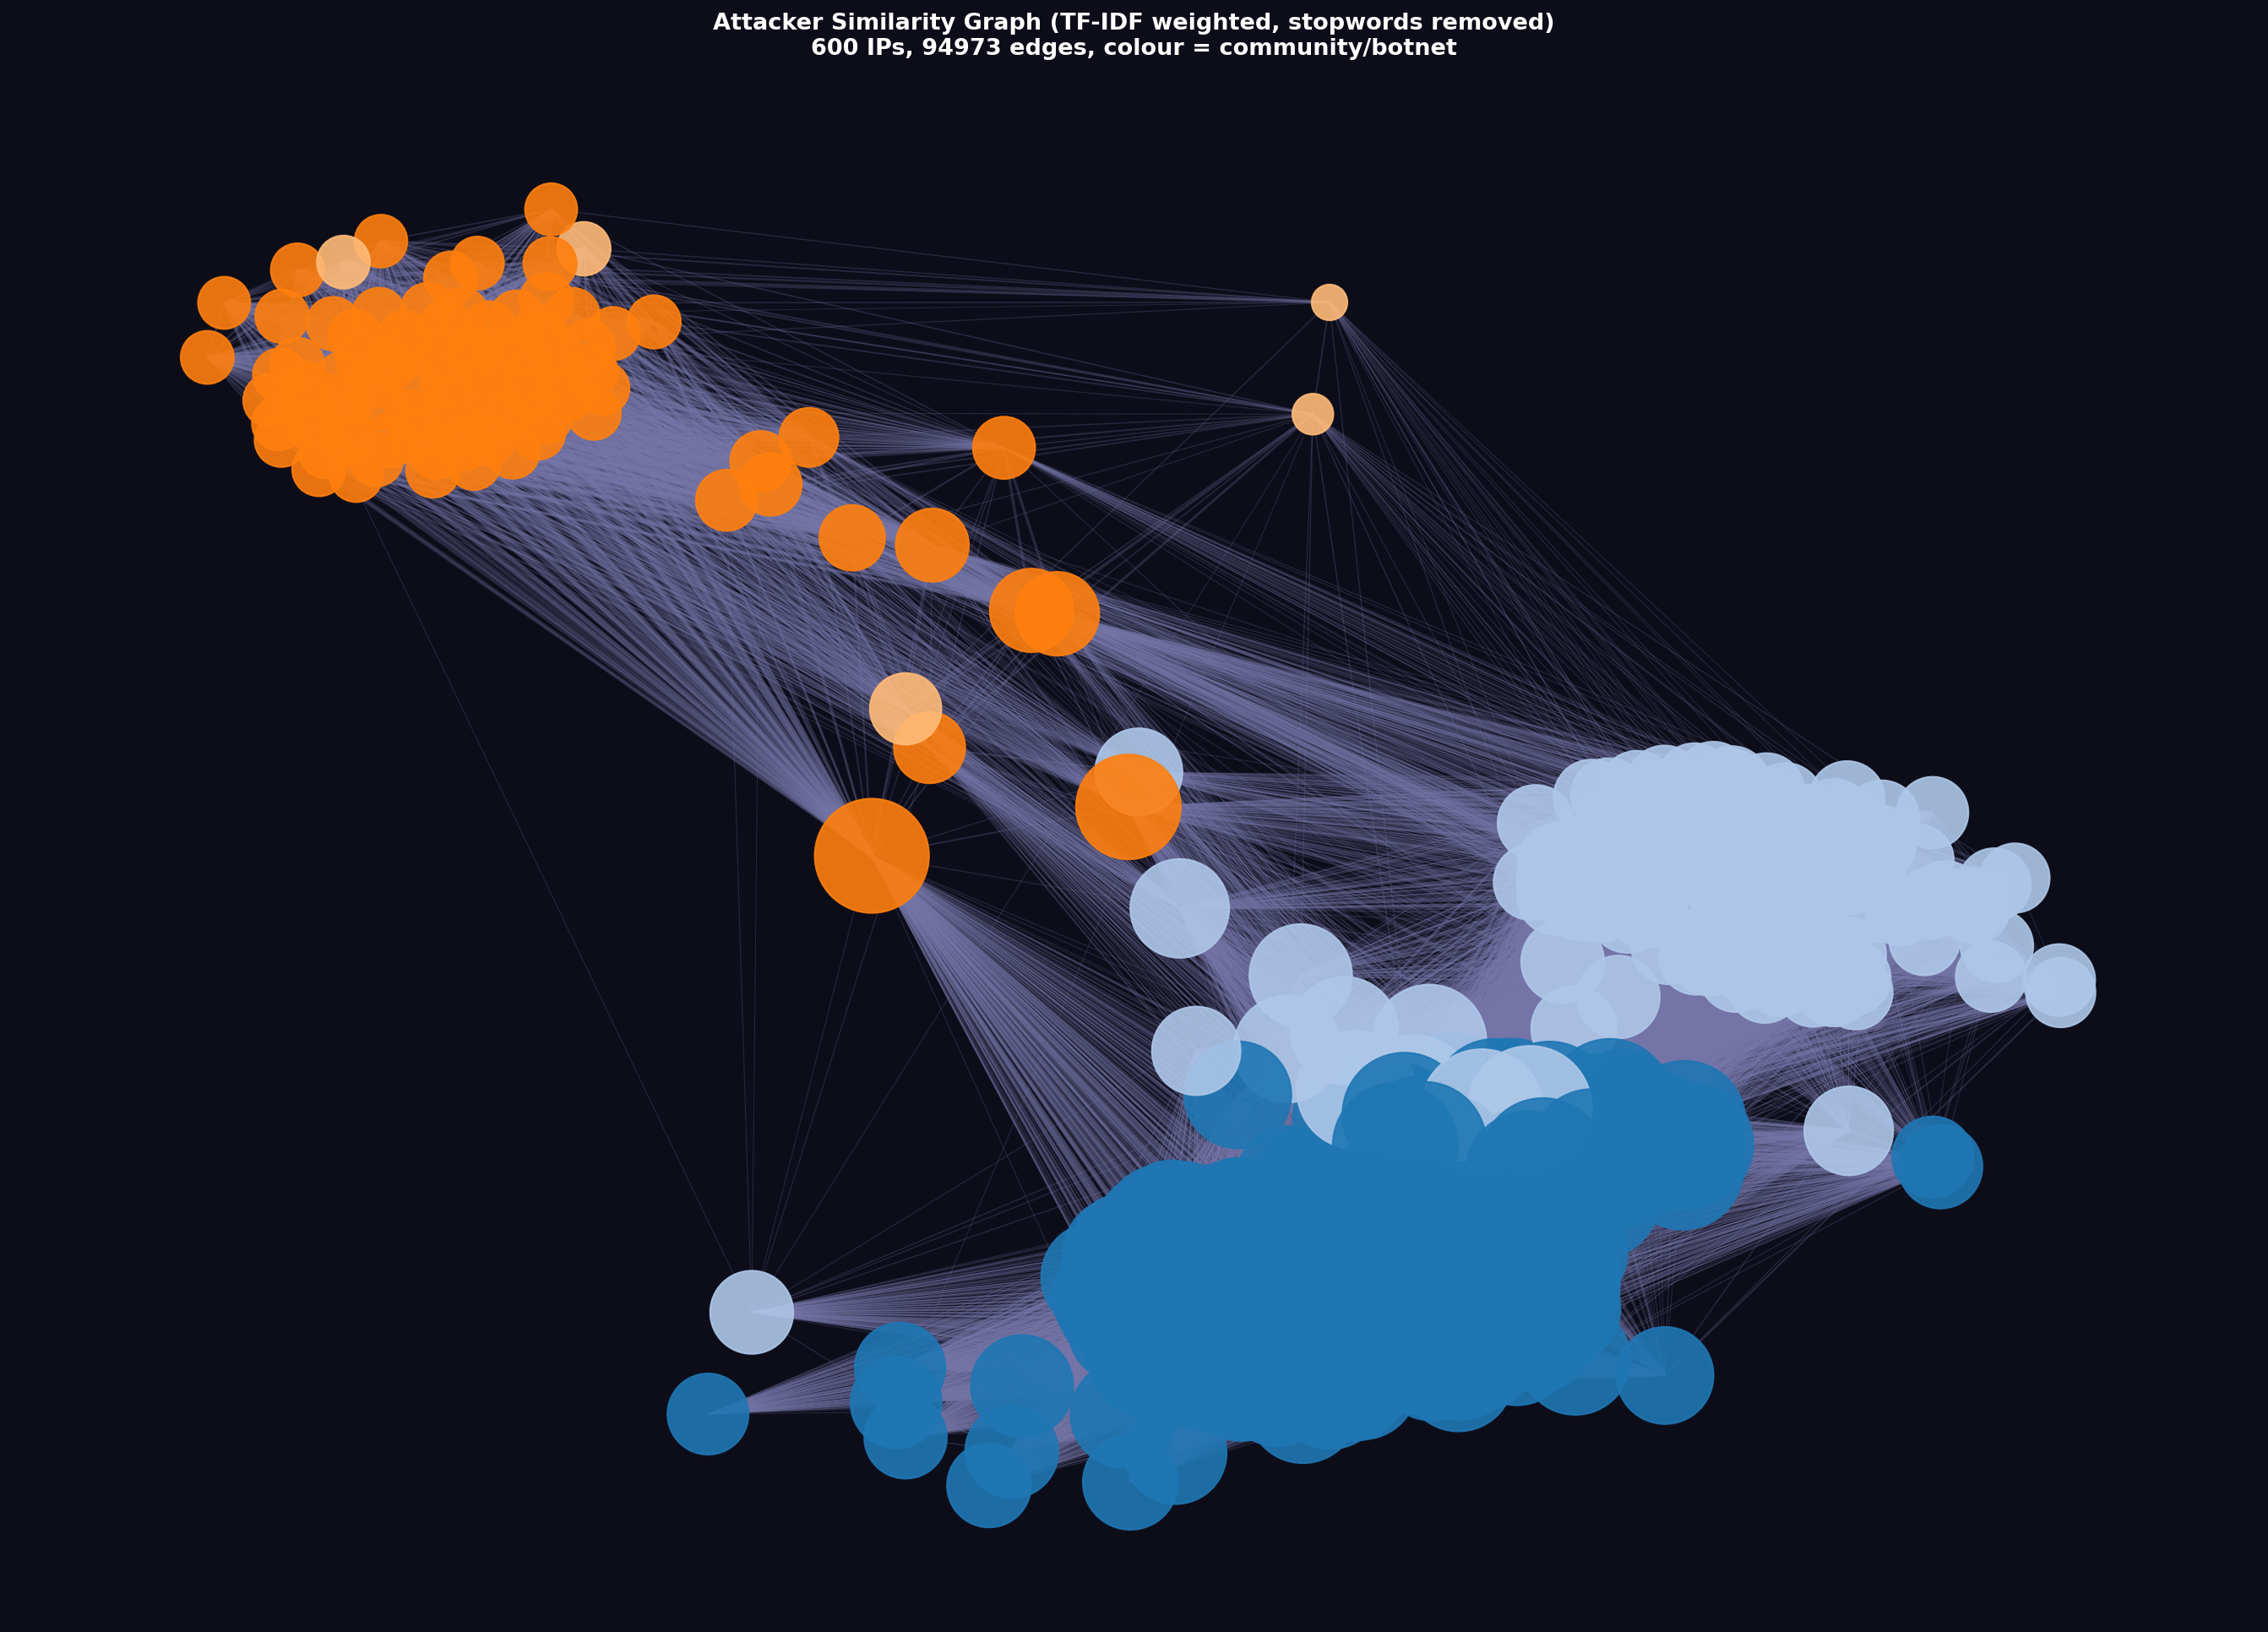
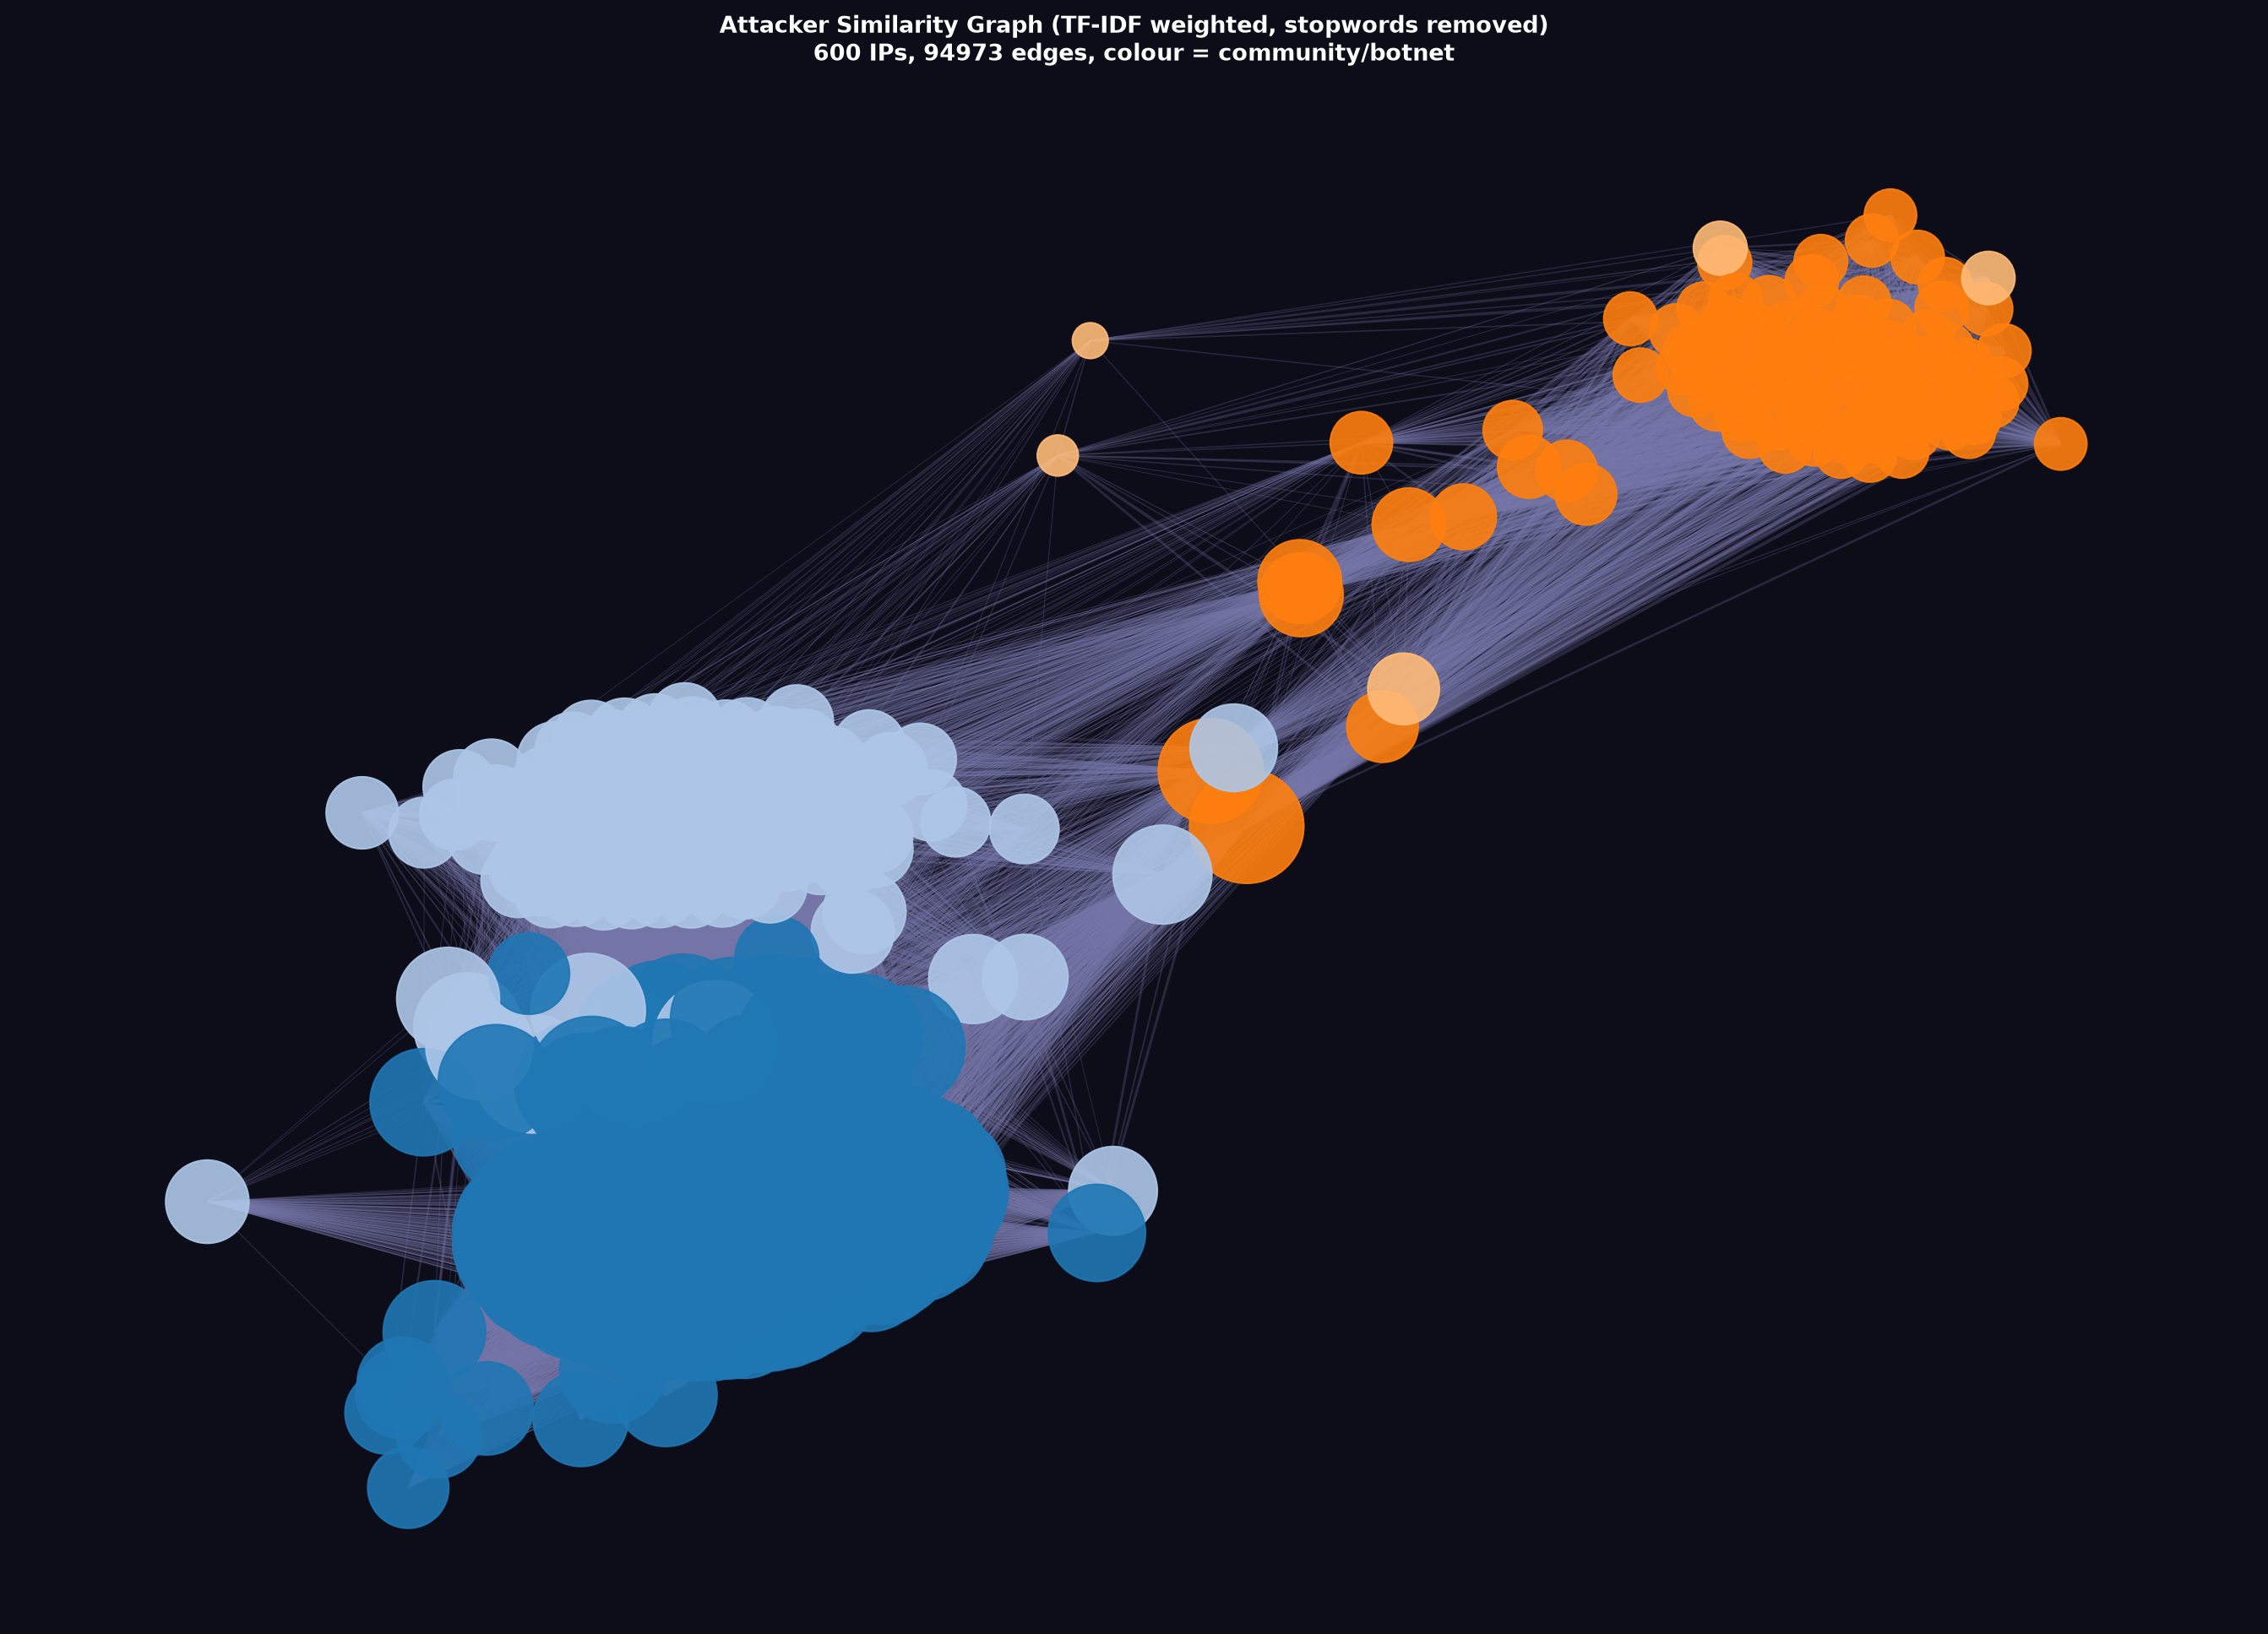
Update report, results, and graph

diff --git a/clustering_report.md b/clustering_report.md
@@ -52,25 +52,25 @@ N  = 4,973   (total unique IPs)
 df = number of IPs that tried this pair
 ```
 
-| Credential pair | IPs | IDF | Signal strength |
-|---|---|---|---|
-| `345gs5662d34/345gs5662d34` | 2,791 | 0.578 | Very low |
-| `root/3245gs5662d34` | 1,658 | 1.098 | Low |
-| `root/@qwer2025` | 799 | 1.828 | Low–medium |
-| `admin/admin` | 452 | 2.398 | Medium |
-| `root/root` | 272 | 2.906 | Medium |
-| `root/debian` | 184 | 3.298 | Medium–high |
-| `root/123456` | 131 | 3.634 | Medium–high |
-| `OPTIONS sip:.../Via: SIP/2.0/...` | ~24 | ~5.3 | High |
-| `perl/warning` | 7 | 6.563 | High |
-| `eth/ethereum12345` | 3 | 7.413 | Very high |
-| Any pair used by exactly 1 IP | 1 | 8.512 | Maximum |
+| Credential pair | IPs | IDF | Signal strength | V4 status |
+|---|---|---|---|---|
+| `345gs5662d34/345gs5662d34` | 2,791 | 0.578 | Very low | Stopword — removed |
+| `root/3245gs5662d34` | 1,658 | 1.098 | Low | Stopword — removed |
+| `root/@qwer2025` | 799 | 1.828 | Low–medium | Stopword — removed |
+| `admin/admin` | 452 | 2.398 | Medium | Kept (minimum IDF) |
+| `root/root` | 272 | 2.906 | Medium | Kept |
+| `root/debian` | 184 | 3.298 | Medium–high | Kept |
+| `root/123456` | 131 | 3.634 | Medium–high | Kept |
+| `OPTIONS sip:.../Via: SIP/2.0/...` | ~24 | ~5.3 | High | Kept |
+| `perl/warning` | 7 | 6.563 | High | Kept |
+| `eth/ethereum12345` | 3 | 7.413 | Very high | Kept |
+| Any pair used by exactly 1 IP | 1 | 8.512 | Maximum | Singleton — removed |
 
 `MIN_COSINE_SIM = 0.10`: two IPs need at least roughly 10% normalised credential overlap to form an edge. Because cosine similarity is normalised by vector length, this threshold is stable regardless of how many credentials an IP tried.
 
 **V4 vocabulary filter.** Before IDF is computed, two classes of credential are removed:
 
-- **Stopwords** (`df > 0.10 × N = 497`): `345gs5662d34/345gs5662d34` (df=2,791) and `root/3245gs5662d34` (df=1,658) are both dropped. These rows in the table above are stopwords in V4.
+- **Stopwords** (`df > 0.10 × N = 497`): `345gs5662d34/345gs5662d34` (df=2,791), `root/3245gs5662d34` (df=1,658), and `root/@qwer2025` (df=799) are all dropped. These three rows in the table above are stopwords in V4.
 - **Singletons** (`df < 2`): credentials only one IP ever tried are also dropped.
 
 After filtering, the minimum IDF in the retained vocabulary rises to approximately 2.3 (credentials at the 10% cutoff), eliminating the near-zero-IDF stopwords from all similarity calculations.
@@ -103,33 +103,34 @@ No stable threshold exists — IDF weighting is the correct fix.
 | Vocabulary filter | None | None | None | Stopwords + singletons removed |
 | Community algorithm | Louvain | Louvain | Leiden | Leiden (plain modularity) |
 | Threshold | min shared pairs | IDF sum >= 1.0 | cosine sim >= 0.10 | cosine sim >= 0.10 |
-| Largest cluster | 1,974 IPs | 856 IPs | 3,329 IPs | TBD (expected: low hundreds) |
-| Clusters >= 10 IPs | 6 | 13 | 9 | TBD |
-| Clusters >= 2 IPs | 21 | 29 | 31 | TBD |
+| Largest cluster | 1,974 IPs | 856 IPs | 3,329 IPs | 3,367 IPs |
+| Clusters >= 10 IPs | 6 | 13 | 9 | 10 |
+| Clusters >= 2 IPs | 21 | 29 | 31 | 29 |
 | Artificial mega-clusters | 3 | 0 | 0 | 0 (canary filtered from vocabulary) |
-| Singletons | 159 | 159 | 224 | TBD (expected: higher than V3) |
-| Total communities | 179 | 188 | 255 | TBD |
+| Singletons | 159 | 159 | 224 | 186 |
+| Total communities | 179 | 188 | 255 | 215 |
 
-### Cluster Distribution
+### Cluster Distribution (V4)
 
 | Size | Count | Identity |
 |---|---|---|
-| 3,329 | 1 | Canary botnet (root/3245gs5662d34) |
+| 3,367 | 1 | Canary-adjacent botnet (ubuntu/3245gs5662d34) |
 | 393 | 1 | Admin/Admin botnet |
-| 377 | 1 | root/root botnet |
-| 196 | 1 | Debian-targeting botnet |
-| 162 | 1 | Unknown (signature: root/------fuck------) |
-| 160 | 1 | HTTP/Go scanner |
-| 32 | 1 | jakob/jakob cluster |
+| 379 | 1 | root/root botnet |
+| 197 | 1 | Debian-targeting botnet |
+| 161 | 1 | Unknown (signature: root/------fuck------) |
+| 135 | 1 | HTTP/Chrome-UA scanner |
+| 34 | 1 | root/Abcd1234 cluster |
+| 25 | 1 | Go-http-client scanner |
 | 24 | 1 | SIP/VoIP scanner |
 | 17 | 1 | Raspberry Pi scanner (pi/raspberryraspberry993311) |
 | 8 | 1 | TLS binary probe |
 | 7 | 1 | Perl exploit tool |
-| 5 | 1 | a/a cluster |
+| 7 | 1 | a/a cluster |
 | 3 | 1 | Ethereum miner |
-| 2 | 18 | Small pairs (crypto-miners, misc) |
-| 1 | 224 | Singletons |
-| **Total** | **255** | |
+| 2 | 15 | Small pairs (crypto-miners, misc) |
+| 1 | 186 | Singletons |
+| **Total** | **215** | |
 
 ### Graph
 
@@ -141,8 +142,8 @@ No stable threshold exists — IDF weighting is the correct fix.
 
 ## 4. Cluster Analysis
 
-**Community 0 — Canary Botnet (3,329 IPs)**
-Signature: `root/3245gs5662d34`. The largest cluster. V3's cosine similarity metric merges the nine sub-clusters that V2 separated — all share the canary credential `345gs5662d34/345gs5662d34` as the dominant signal, and after L2 normalisation the secondary credential differences that drove V2's splitting are insufficient to produce distinct communities at `MIN_COSINE_SIM = 0.10`. The canary string is a deliberate operator fingerprint inserted to identify their bots in honeypot logs. Scale and technique indicate a professional threat actor.
+**Community 0 — Canary-Adjacent Botnet (3,367 IPs)**
+Signature: `ubuntu/3245gs5662d34`. The largest cluster. In V4, the two most common canary credentials (`345gs5662d34/345gs5662d34` and `root/3245gs5662d34`) are removed as stopwords; the community is now identified by `ubuntu/3245gs5662d34`, a less frequent variant that survived filtering. The cluster is slightly larger than V3's 3,329 IPs, indicating the stopword removal did not fragment this botnet — the remaining canary-family credentials are still sufficient to hold the group together. The canary string is a deliberate operator fingerprint inserted to identify their bots in honeypot logs. Scale and technique indicate a professional threat actor.
 
 ---
 
@@ -161,8 +162,11 @@ Signature: `root/debian`. Targets Debian-based Linux servers with default root c
 
 ---
 
-**Community 5 — HTTP/Go Scanner (160 IPs)**
-Signature: HTTP headers (`User-Agent: Mozilla/5.0`, `Accept: */*`) sent as SSH credentials. Not an SSH brute-force tool — a Go-based multi-protocol scanner probing port 22 for misconfigured HTTP servers or Redis instances.
+**Communities 5 & 7 — HTTP/Go Scanner (135 + 25 IPs)**
+In V4 the V3 single HTTP/Go scanner community (160 IPs) splits into two distinct groups. Community 5 (135 IPs) uses a full Chrome-like User-Agent (`Mozilla/5.0 (Macintosh; Intel Mac OS X 13_1) AppleWebKit/537.36`), while Community 7 (25 IPs) uses the bare `User-Agent: Go-http-client/1.1` header. Both send HTTP headers as SSH credentials — not brute-force tools, but Go-based multi-protocol scanners probing port 22 for misconfigured HTTP servers or Redis instances. The stopword removal revealed that a common credential previously masked the difference between these two tool variants.
+
+**Community 6 — root/Abcd1234 Cluster (34 IPs)**
+Signature: `root/Abcd1234`. A cluster that emerges clearly in V4 after stopword removal. Targets Linux servers with a common "strong-looking but actually guessable" password pattern (capitalised word + digits + punctuation). Consistent with credential-stuffing tools using leaked-password dictionaries.
 
 ---
 
@@ -234,7 +238,7 @@ Crypto-miner usernames (`xmr`, `bitcoin`, `eth`, `wallet`) and miscellaneous pai
 
 | File | Description |
 |---|---|
-| `cluster_attackers.py` | Analysis script (V3, cosine similarity + Leiden) |
+| `cluster_attackers.py` | Analysis script (V4, cosine similarity + Leiden + stopword removal) |
 | `cluster_results.csv` | Every IP with community ID, cluster size, signature credential |
 | `attacker_graph.png` | Graph visualisation (600-node sample) |
 | `cowrie_ip_username_pass_anon.csv` | Raw honeypot data |
@@ -274,7 +278,7 @@ With $N = 4{,}973$, `MAX_DF_FRACTION = 0.10`, `MIN_DF = 2`:
 | Upper bound | $df_p \leq 497$ | Credentials used by >10% of IPs (stopwords) |
 | Lower bound | $df_p \geq 2$ | Credentials only one IP ever tried (singletons) |
 
-**Stopwords** ($df_p > 497$) are credentials so common across the dataset that sharing them carries no discriminating signal. In information retrieval, words like "the" or "and" that appear in every document are removed from the index for exactly this reason. Here, `345gs5662d34/345gs5662d34` (df=2,791) and `root/3245gs5662d34` (df=1,658) are the primary stopwords.
+**Stopwords** ($df_p > 497$) are credentials so common across the dataset that sharing them carries no discriminating signal. In information retrieval, words like "the" or "and" that appear in every document are removed from the index for exactly this reason. Three stopwords were identified: `345gs5662d34/345gs5662d34` (df=2,791), `root/3245gs5662d34` (df=1,658), and `root/@qwer2025` (df=799).
 
 **Singletons** ($df_p = 1$) appear in exactly one IP's vector. Their inner product with any other IP's vector is necessarily zero — they cannot contribute to any edge. They inflate the L2 norm of the single IP that tried them, weakening that IP's cosine similarity with its genuine botnet peers. Removing them makes the remaining vector directions more informative.
 
@@ -456,7 +460,7 @@ The key change from V3 to V4 is vocabulary filtering. Everything else — cosine
 | Vocabulary | All 40,474 credential pairs | Pairs with $2 \leq df \leq 497$ only |
 | Stopwords | Retained (IDF=0.578, partial influence via norm) | Removed — zero dimensions in all vectors |
 | Singletons | Retained (inflate norms, no edge contribution) | Removed |
-| IDF minimum | 0.578 (canary pair) | ~2.30 (pairs at 10% cutoff) |
+| IDF minimum | 0.578 (canary pair) | 2.398 (admin/admin, pairs at 10% cutoff) |
 | Canary effect | Cosine partially re-inflated after L2 normalisation | Zero — canary has no dimension in any vector |
 | IPs with all-zero rows | Cannot occur (every IP tried something) | Possible (IPs whose credentials are all stopwords or singletons) |
 | Zero-row handling | Divide-by-one fallback | Safe divide: inv=0 keeps row zero |

diff --git a/README.md b/README.md
@@ -1,7 +1,7 @@
-# honeypot-clustering
+# Honeypot-clustering
 
 Botnet discovery from Cowrie SSH honeypot logs. Attacker IPs are clustered based
-on the (username, password) credential pairs they attempt — bots in the same botnet
+on the (username, password) credential pairs they attempt , bots in the same botnet
 run the same attack software with the same credential list, so shared pairs reveal
 group membership.
 
@@ -14,7 +14,7 @@ across 40,474 unique credential pairs. IP addresses are anonymised (`IP_42`, etc
 
 Each IP is represented as a TF-IDF vector in credential space. Before IDF is
 computed, near-universal credentials (used by >10% of all IPs) are removed as
-stopwords — they are too common to distinguish botnets and their presence in all
+stopwords , they are too common to distinguish botnets and their presence in all
 vectors causes L2 normalisation to re-inflate their influence even after IDF
 down-weighting. Singletons (used by exactly one IP) are also removed.
 
@@ -43,13 +43,22 @@ python cluster_attackers.py
 
 ### V4 (current — stopword filtering applied)
 
-V4 results are pending the next script run. Expected outcomes based on the
-vocabulary filter removing the canary credentials:
+3 stopwords removed (`345gs5662d34/345gs5662d34`, `root/3245gs5662d34`, `root/@qwer2025`) and
+15,325 singletons removed, leaving 25,146 credential pairs for analysis.
 
-- Largest cluster drops sharply from V3's 3,329 IPs (expected: low hundreds)
-- Singleton count rises — the canary was previously gluing unrelated IPs together
-- Known-good clusters survive: Perl exploit tool (7 IPs), SIP scanner (~24 IPs), TLS probe (8 IPs)
-- No cluster signature credential used by >10% of all IPs
+| Metric | Value |
+|---|---|
+| Total communities | 215 |
+| Largest cluster | 3,367 IPs — Canary-adjacent botnet (ubuntu/3245gs5662d34) |
+| Clusters ≥ 10 IPs | 10 |
+| Singletons (no shared credentials) | 186 |
+
+Notable clusters: Canary-adjacent botnet (3,367 IPs), Admin/Admin botnet (393 IPs),
+root/root botnet (379 IPs), Debian-targeting botnet (197 IPs),
+Unknown cluster (161 IPs), HTTP/Chrome-UA scanner (135 IPs),
+root/Abcd1234 cluster (34 IPs, new in V4), Go-http-client scanner (25 IPs),
+SIP/VoIP fraud scanner (24 IPs), Raspberry Pi scanner (17 IPs),
+TLS binary probe (8 IPs), Perl exploit tool (7 IPs).
 
 ### V3 (baseline — for comparison)
 